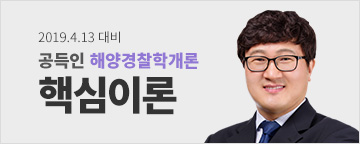
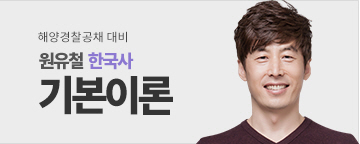
해양경찰 메인

Changed region(s): [[0.55, 0.0, 1.0, 1.0], [0.0917, 0.3611, 0.55, 0.8056], [0.0917, 0.2222, 0.3667, 0.3056]]

diff --git a/views/willbes/pc/site/main_2001_3007.blade.php b/views/willbes/pc/site/main_2001_3007.blade.php
@@ -10,20 +10,20 @@
             <div class="widthAuto bnrSec01">
                 <div>
                     <a href="{{ site_url('/promotion/index/cate/3007/code/1043') }}">
-                        <img src="{{ img_url('cop_sea/banner/bnr_756_01.jpg') }}" alt="기본이론">
+                        <img src="{{ img_url('cop_sea/banner/bnr_756_01.jpg') }}" title="기본이론">
                     </a>
                 </div>
                 <ul>
-                    <li><a href="{{ site_url('/lecture/index/cate/3007/pattern/only?subject_idx=1031') }}"><img src="{{ img_url('cop_sea/banner/bnr_360_01.jpg') }}" alt="공득인 해양경찰학개론 핵심이론"></a></li>
-                    <li><a href="{{ site_url('/lecture/show/cate/3007/pattern/only/prod-code/132243') }}"><img src="{{ img_url('cop_sea/banner/bnr_360_02.jpg') }}" alt="공득인 해사법규 핵심이론"></a></li>
+                    <li><a href="{{ site_url('/lecture/show/cate/3007/pattern/only/prod-code/132260') }}"><img src="{{ img_url('cop_sea/banner/bnr_360_01.jpg') }}" title="원유철 한국사 기본이론"></a></li>
+                    <li><a href="{{ site_url('/lecture/show/cate/3008/pattern/only/prod-code/151931') }}"><img src="{{ img_url('cop_sea/banner/bnr_360_02.jpg') }}" title="오태진 한국사 기본이론"></a></li>
                 </ul>
             </div>
         </div>
 
         <div class="Section mt30">
             <div class="widthAuto bnrSec02">
-                <div><a href="{{ site_url('/professor/show/cate/3007/prof-idx/50547/?subject_idx=1004&subject_name=형사소송법') }}"><img src="{{ img_url('cop_sea/banner/bnr_1120_01.jpg') }}" alt="신광은 형사소송법"></a></div>
-                <div><a href="{{ site_url('/professor/show/cate/3007/prof-idx/50301/?subject_idx=1031&subject_name=%ED%95%B4%EC%96%91%EA%B2%BD%EC%B0%B0%ED%95%99%EA%B0%9C%EB%A1%A0') }}"><img src="{{ img_url('cop_sea/banner/bnr_1120_02.jpg') }}" alt="공득인 해양경찰학개론"></a></div>
+                <div><a href="{{ site_url('/professor/show/cate/3007/prof-idx/50547/?subject_idx=1004&subject_name=형사소송법') }}"><img src="{{ img_url('cop_sea/banner/bnr_1120_01.jpg') }}" title="신광은 형사소송법"></a></div>
+                <div><a href="{{ site_url('/professor/show/cate/3007/prof-idx/50301/?subject_idx=1031&subject_name=%ED%95%B4%EC%96%91%EA%B2%BD%EC%B0%B0%ED%95%99%EA%B0%9C%EB%A1%A0') }}"><img src="{{ img_url('cop_sea/banner/bnr_1120_02.jpg') }}" title="공득인 해양경찰학개론"></a></div>
             </div>
         </div>
 
@@ -35,49 +35,49 @@
                 </div>
                 <ul class="ProfCopBox mt60 mb100">
                     <li>
-                        <img src="{{ img_url('cop_sea/prof/prof_ske.jpg') }}" alt="신광은">
+                        <img src="{{ img_url('cop_sea/prof/prof_ske.jpg') }}" title="신광은">
                         <ul class="ProfBtns">
                             <li><a href="#none" onclick="fnPlayerProf('50547', 'OT');">▶</a></li>
                             <li><a href="{{ front_url('/professor/show/cate/' . $__cfg['CateCode'] . '/prof-idx/50547/?subject_idx=1004&subject_name=%ED%98%95%EC%82%AC%EC%86%8C%EC%86%A1%EB%B2%95') }}">교수소개</a></li>
                         </ul>
                     </li>
                     <li>
-                        <img src="{{ img_url('cop_sea/prof/prof_kwu.jpg') }}" alt="김원욱">
+                        <img src="{{ img_url('cop_sea/prof/prof_kwu.jpg') }}" title="김원욱">
                         <ul class="ProfBtns">
                             <li><a href="#none" onclick="fnPlayerProf('50297', 'OT');">▶</a></li>
                             <li><a href="{{ front_url('/professor/show/cate/' . $__cfg['CateCode'] . '/prof-idx/50297/?subject_idx=1003&subject_name=%ED%98%95%EB%B2%95') }}">교수소개</a></li>
                         </ul>
                     </li>
                     <li>
-                        <img src="{{ img_url('cop_sea/prof/prof_hsm.jpg') }}" alt="하승민">
+                        <img src="{{ img_url('cop_sea/prof/prof_hsm.jpg') }}" title="하승민">
                         <ul class="ProfBtns">
                             <li><a href="#none" onclick="fnPlayerProf('50135', 'OT');">▶</a></li>
                             <li><a href="{{ front_url('/professor/show/cate/' . $__cfg['CateCode'] . '/prof-idx/50135/?subject_idx=1001&subject_name=%EC%98%81%EC%96%B4') }}">교수소개</a></li>
                         </ul>
                     </li>
                     <li>
-                        <img src="{{ img_url('cop_sea/prof/prof_wuc.jpg') }}" alt="원유철">
+                        <img src="{{ img_url('cop_sea/prof/prof_wuc.jpg') }}" title="원유철">
                         <ul class="ProfBtns">
                             <li><a href="#none" onclick="fnPlayerProf('50641', 'OT');">▶</a></li>
                             <li><a href="{{ front_url('/professor/show/cate/' . $__cfg['CateCode'] . '/prof-idx/50641/?subject_idx=1002&subject_name=%ED%95%9C%EA%B5%AD%EC%82%AC') }}">교수소개</a></li>
                         </ul>
                     </li>
                     <li>
-                        <img src="{{ img_url('cop_sea/prof/prof_otj.jpg') }}" alt="오태진">
+                        <img src="{{ img_url('cop_sea/prof/prof_otj.jpg') }}" title="오태진">
                         <ul class="ProfBtns">
                             <li><a href="#none" onclick="fnPlayerProf('50131', 'OT');">▶</a></li>
                             <li><a href="{{ front_url('/professor/show/cate/' . $__cfg['CateCode'] . '/prof-idx/50131/?subject_idx=1002&subject_name=%ED%95%9C%EA%B5%AD%EC%82%AC') }}">교수소개</a></li>
                         </ul>
                     </li>                    
                     <li>
-                        <img src="{{ img_url('cop_sea/prof/prof_gdi2.jpg') }}" alt="공득인">
+                        <img src="{{ img_url('cop_sea/prof/prof_gdi2.jpg') }}" title="공득인">
                         <ul class="ProfBtns">
                             <li><a href="#none">▶</a></li>
                             <li><a href="#none">교수소개</a></li>
                         </ul>
                     </li>
                     <li>
-                        <img src="{{ img_url('cop_sea/prof/prof_gdi.jpg') }}" alt="공득인">
+                        <img src="{{ img_url('cop_sea/prof/prof_gdi.jpg') }}" title="공득인">
                         <ul class="ProfBtns">
                             <li><a href="#none" onclick="fnPlayerProf('50301', 'OT');">▶</a></li>
                             <li><a href="{{ front_url('/professor/show/cate/' . $__cfg['CateCode'] . '/prof-idx/50301/?subject_idx=1030&subject_name=%ED%95%B4%EC%82%AC%EB%B2%95%EA%B7%9C') }}">교수소개</a></li>
